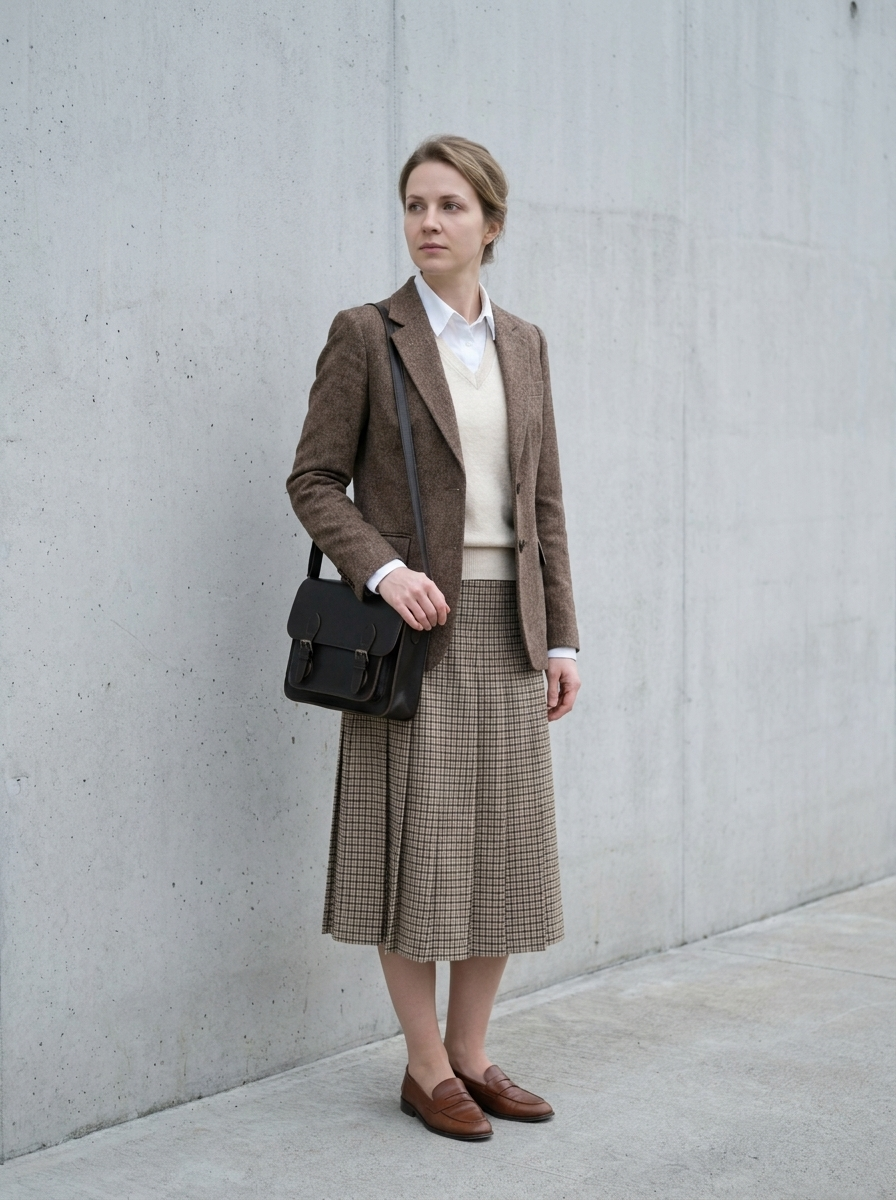
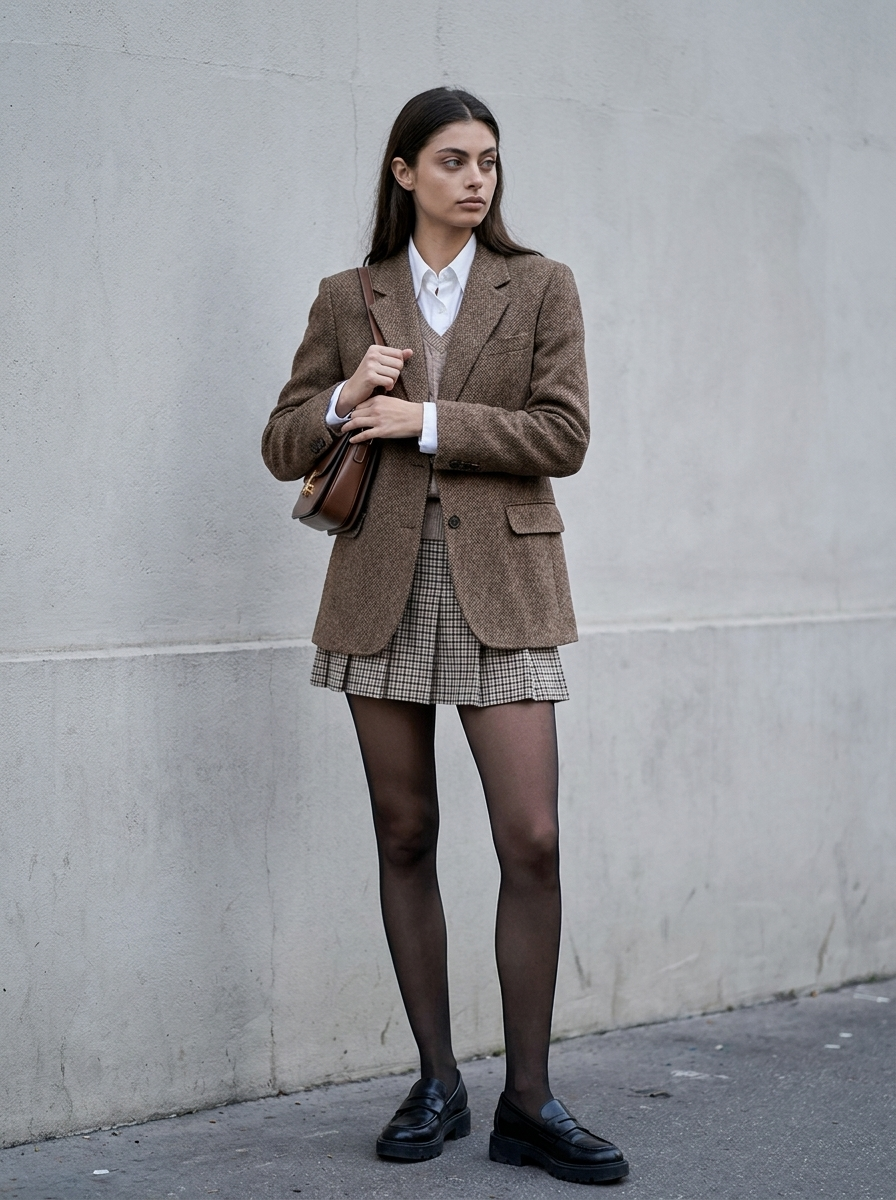
feat(swipe): refresh de stylist del deck de mujer — 25 cartas + peinado por estilo (v0.2.6.0)
Crítica de stylist experto sobre las 25 cartas: 5 leían "señora/monja"
(romántico, academia, tonos tierra, gorpcore, utility) por triple señal
apilada — modelo mayor + peinado que envejece + styling recatado sin
anclas actuales. Se re-ejecutaron en su versión vigente y las 4
mejorables (náutico, boho, clásico, edgy/sastre) se corrigieron de paso.

Pipeline (gen-looks-genz.mjs):
- Peinado POR CARTA en las 25 filas de mujer (el peinado es styling; el
  img2img clonaba la melena de la referencia y todo salía igual).
- m6 = modelo de la landing para los estilos que apilaban edad.
- Regla anti-flotación de bolsas/accesorios (artefacto de Gemini).
- --only=<id[,id]> para regenerar cartas sueltas con su pose canónica.

diff --git a/CHANGELOG.md b/CHANGELOG.md
@@ -2,6 +2,12 @@
 
 Cambios notables de stailist. Formato basado en [Keep a Changelog](https://keepachangelog.com/es/); versiones `MAJOR.MINOR.PATCH.MICRO`.
 
+## [0.2.6.0] - 2026-07-22
+
+### Changed
+
+- **Refresh completo del deck de mujer (25 cartas):** pasada de stylist experto sobre cada look. Los estilos que se veían "de señora" (romántico, academia, tonos tierra, gorpcore, utility, náutico, boho, clásico elegante) se re-ejecutaron en su versión actual — mismas estéticas, otra década. Y ahora **cada carta tiene su propio peinado** pensado para el estilo: chongo pulido para minimalista, coleta slicked para utility, claw clip para coastal, trenzas finas para boho… porque el peinado también es styling.
+
 ## [0.2.5.0] - 2026-07-22
 
 ### Added
